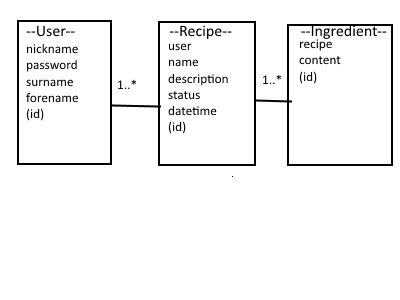
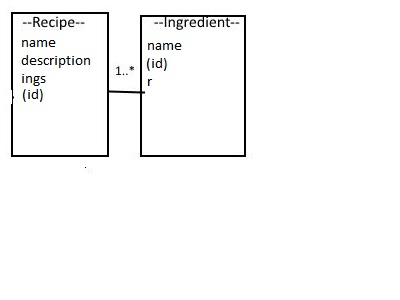
masodik

Changed region(s): [[0.03, 0.03, 0.81, 0.57], [0.72, 0.06, 0.99, 0.57]]

diff --git a/README.md b/README.md
@@ -3,11 +3,9 @@
 
 1. Követelmények összegyűjtése
 	1. Funkcionális elvárások
-		- Felhasználóként szeretnék felvinni egy étel elkészítési útmutatóját, ill. azt módsítani/ törölni --> Recept felvitele/ módosítása törlése
-		- Felhasználóként saját receptbe a hozzávalókat is bele szeretném rögzíteni, ill. azokat módostani törölni --> Hozzávalók rögzítése/ módosítása/ törlése
-		- Felhasználóként meg szeretném tekinteni saját receptjeimet --> Recept megtekintése
-		- Operátorként szeretném látni minden felhasználó összes receptjét, azokat módosíthatom v. törölhetem
-		- Operátorként láthatom az összes felhasználó adatjait (kivéve jelszó), felhasznalókat törölhetek
+		- Szeretnék felvinni egy étel elkészítési útmutatóját, ill. azt módsítani/ törölni --> Recept felvitele/ módosítása törlése
+		- Saját receptbe a hozzávalókat is bele szeretném rögzíteni, ill. azokat módostani törölni --> Hozzávalók rögzítése/ módosítása/ törlése
+		- Meg szeretném tekinteni saját receptjeimet --> Recept megtekintése
 	2. Nem funkcionális követelmények
 		- Felhasználóbarát, ergonomikus elrendezés és kinézet.
 		- Gyors működés.
@@ -34,29 +32,23 @@
 		![nincs_meg](docs/images/oldalterkep.jpg)
 	3. Végpontok
 		- Nyitólap: `/`
-		- Bejelentkezés: `/login`
-		- Regisztráció: `/login/signup`
-		- Kijelentkezés: `/logout`
 		- Receptek listázása: `/recipes/list`
 		- Recept megjelenítése: `/recipes/describe/:id`
-		- Hozzávaló hozzáadása: `/ingredients/new?id=:id`
+		- Hozzávaló hozzáadása: `/ingredients/new/:recipe_id`
 		- Hozzávaló módosítása: `/ingredients/modify/:id`
-		- Hozzávaló törlése: `/ingredients/delete/:id`
+		- Hozzávaló törlése: recept megjelenítésénél belső js controller függvény
 		- Recept módosítása: `/recipes/modify/:id`
-		- Recept törlése: `/recipes/delete/:id`
+		- Recept törlése: recept listázásánál belső js controller függvény
 		- Új recept felvétele: `/recipes/new`
-		- Operátori felület: `/operator`
-		- Felhasználó törlése: `/operator/delete/:id`
 2. Felhasználóifelület-modell
 	1. Oldalvázlatok
-		![nincs_meg](docs/images/oldalterv_op.jpg)
+		![nincs_meg](docs/images/oldalterv_rc.jpg)
 3. Osztálymodell
 	1. Adatmodell
 		![nincs_meg](docs/images/adatmodell.jpg)
 	2. Adatbázisterv
 		![nincs_meg](docs/images/adatbterv.jpg)
 	3. Állapotdiagram
-		![nincs_meg](docs/images/allapotdiagram.jpg)
 
 
 ## Implementáció
@@ -75,18 +67,15 @@
 ##Tesztelés
 
 1. Tesztelési környezet bemutatása
-	A teszteléhez mocha keretrendszert használtam(parancs: `mocha <tesztfájlnév> --timeout 12000`). A maximális késleltetést 15 másodpercre állítottam(`--timeout 12000`) a cloud9 szerver autentikáció terén tapasztalt lassúsága miatt.
+
 2. Egységtesztek
-	Az egységek (entity) közül a user-t teszteltem le a chai ellenőrzőkönyvtár segtségével mocha keretrendszerben. A kapcsolódó tesztfájl: `test/test1_usermodel.js`.
+
 3. Funkcionális felületi tesztek
-	Funkcionális felületi tesztek elvégzéséhez a zombie.js kereteit használtam. A kapcsolódó tesztfájl: `test/test2_zombie.js`
+
 4. Tesztesetek
-	- Az entity tesztelésénél kitértem a `user`, létrehozására helyes és helytelen adatokkal, módsítására, keresésére, jelszó ellenőrzésére helyes és helytelen példával.
 	- felületi tesztelés:
 		- nyitólap meglátogatása
 		- új recept készítése
-		- operátor oldal meglátogatása 
-			- ehhez szükséges a `.tmp/default.db` fájlban egy `kjozsi` nevű, `kjozsi` jelszavú felhasználó role-ját `operator`-ra átírni ill. egy `k`:`k` sima felhasználó
 		- új hozzávaló hozzáadása az előbbi példában készített recepthez
 
 
@@ -95,4 +84,4 @@
 1. A futtatáshoz ajánlott hardver-, szoftver konfiguráció
 	A futtatáshoz minimum 2GHz-es egymagos processzor, legalább 512 MB RAM és 1GB szabad tárhely ajánlott. A program használatához valamilyen Linux operációs rendszer disztribúció szükséges.
 2. Telepítés lépései és a program használata
-	A fájlokat a GitHub `Download Zip` opciója segítségével lehet letölteni ezután a saját szerverre kicsomagolással felrakható, majd a server.js futtatásával elindítható. Az esetleges függőségeket (dependency) a `npm install <fuggoseg> --save` paranccsal telepíthetjük.
+	A fájlokat a GitHub `Download Zip` opciója segítségével lehet letölteni ezután a saját szerverre kicsomagolással felrakható, majd a REST szerver a server.js futtatásával elindítható, mig az Ember.js kliens-oldali alkalmazás szervere az `ember server` parancs kiadásával indítható. Az esetleges függőségeket (dependency) a `npm install <fuggoseg> --save` paranccsal telepíthetjük.
